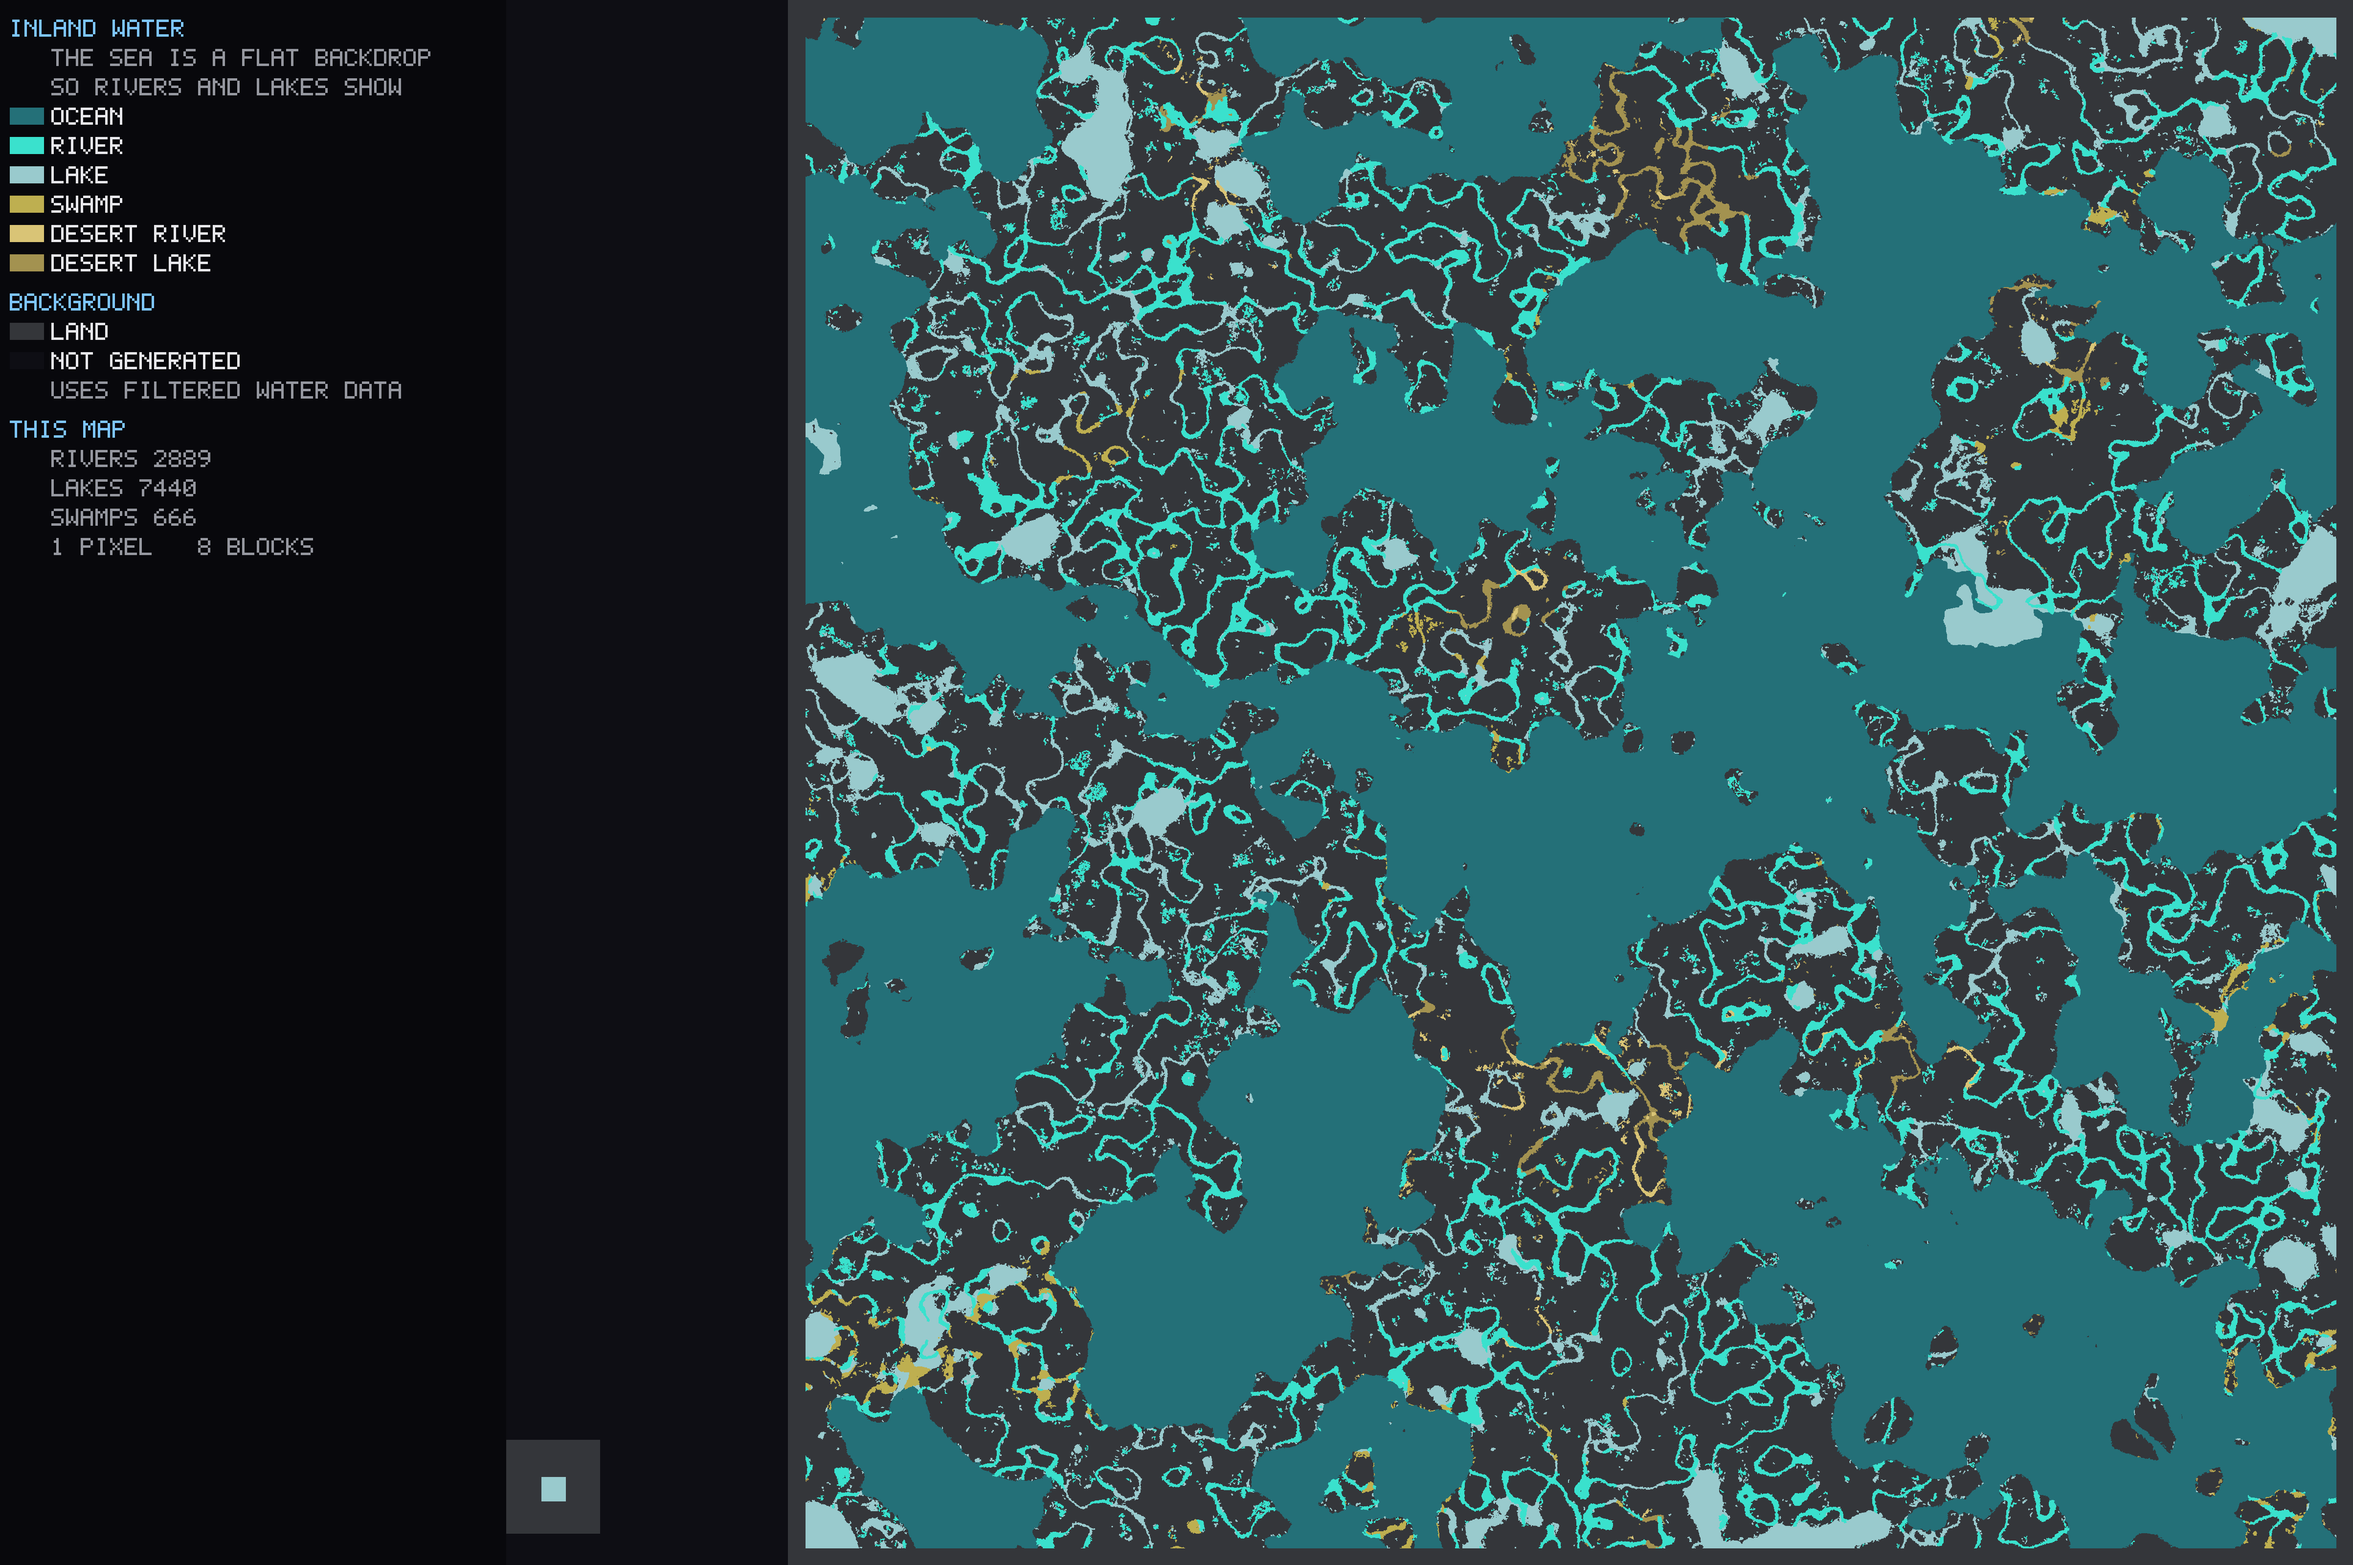
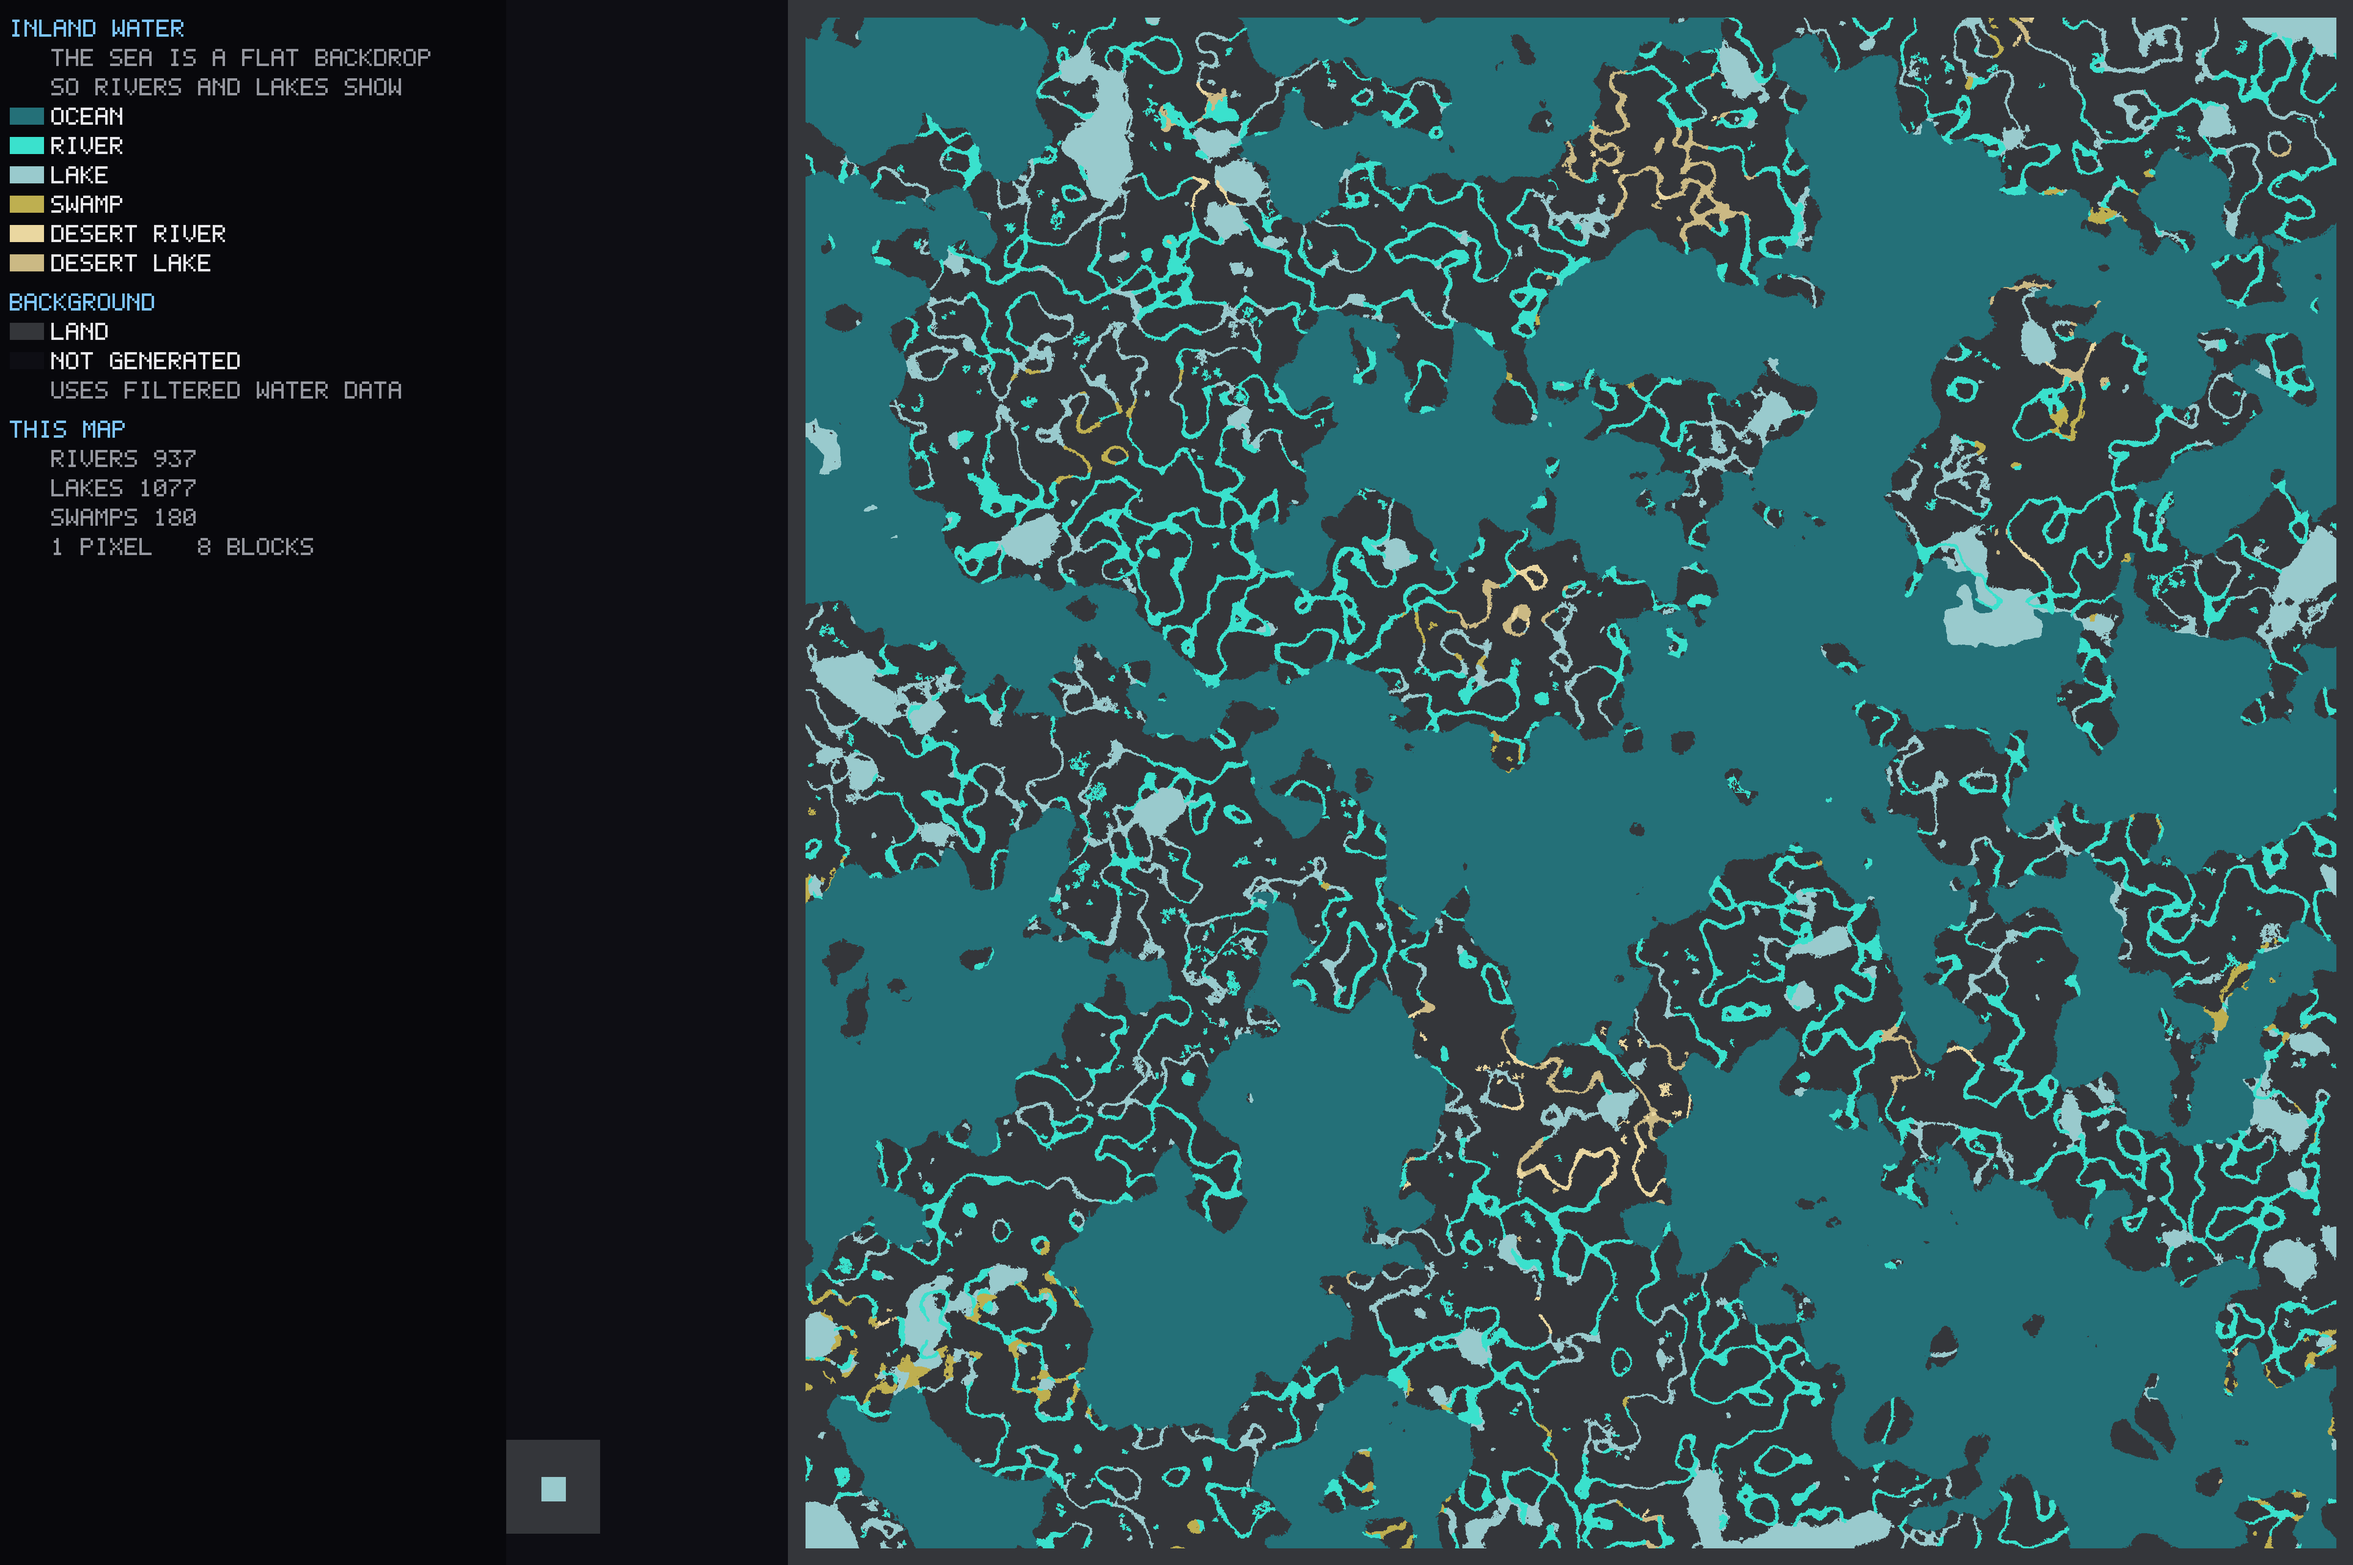
Reduce river and lake noise and lighten desert water colors

diff --git a/src/debug/map.rs b/src/debug/map.rs
@@ -836,8 +836,8 @@ fn inland_color(kind: WaterKind) -> [u8; 3] {
 /// river/lake regions get the sand palette; other kinds keep their base colour.
 fn inland_region_color(kind: WaterKind, modifiers: Modifiers) -> [u8; 3] {
     match (kind, modifiers.contains(Modifiers::DESERT)) {
-        (WaterKind::River, true) => [0xd9, 0xc4, 0x76],
-        (WaterKind::Lake, true) => [0xa3, 0x92, 0x50],
+        (WaterKind::River, true) => [0xea, 0xd7, 0xa0],
+        (WaterKind::Lake, true) => [0xcb, 0xb9, 0x84],
         _ => inland_color(kind),
     }
 }
